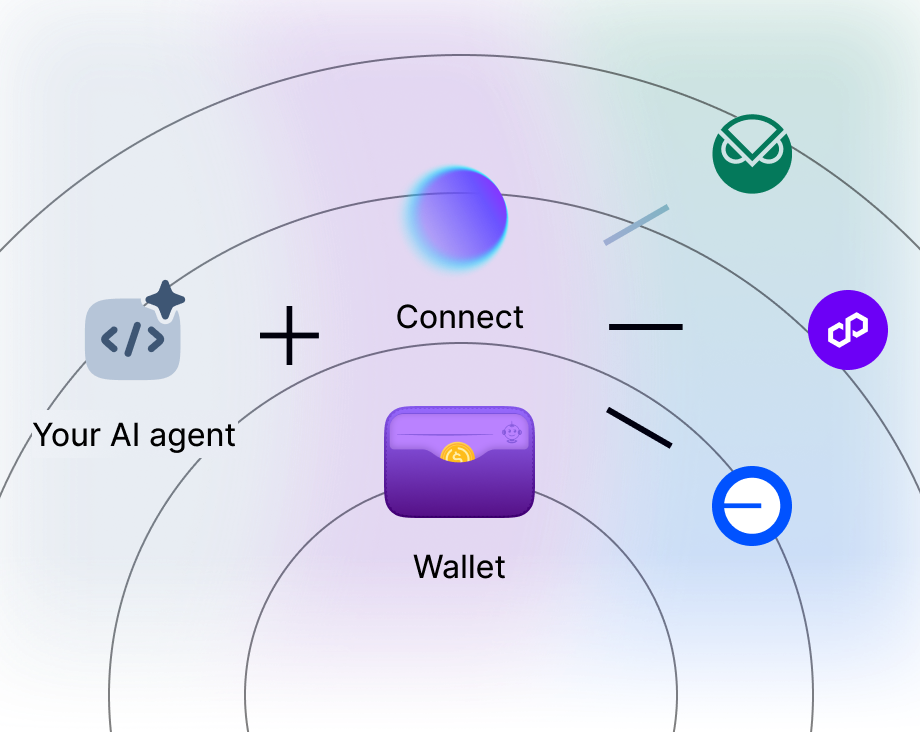
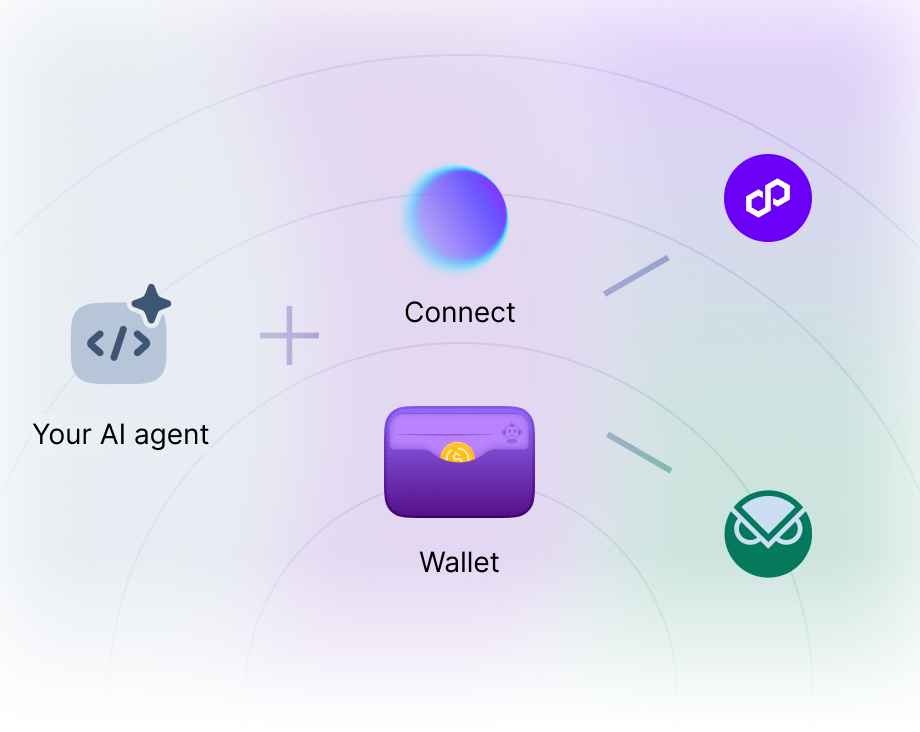
perf(connect): lazy-load onboarding intro images
The agent introduction slides forced eager loading via `priority`, so the
large Connect PNGs were preloaded up front, slowing the "Select agent" step.
Switch to loading="lazy" and compress the Connect intro assets.

diff --git a/frontend/components/AgentIntroduction/IntroductionStep.tsx b/frontend/components/AgentIntroduction/IntroductionStep.tsx
@@ -41,7 +41,7 @@ const AnimatedImage = ({ imgSrc, alt, imageHeight }: AnimatedImageProps) => (
       <Image
         src={imgSrc}
         alt={alt}
-        priority
+        loading="lazy"
         width={0}
         height={0}
         sizes="100vw"